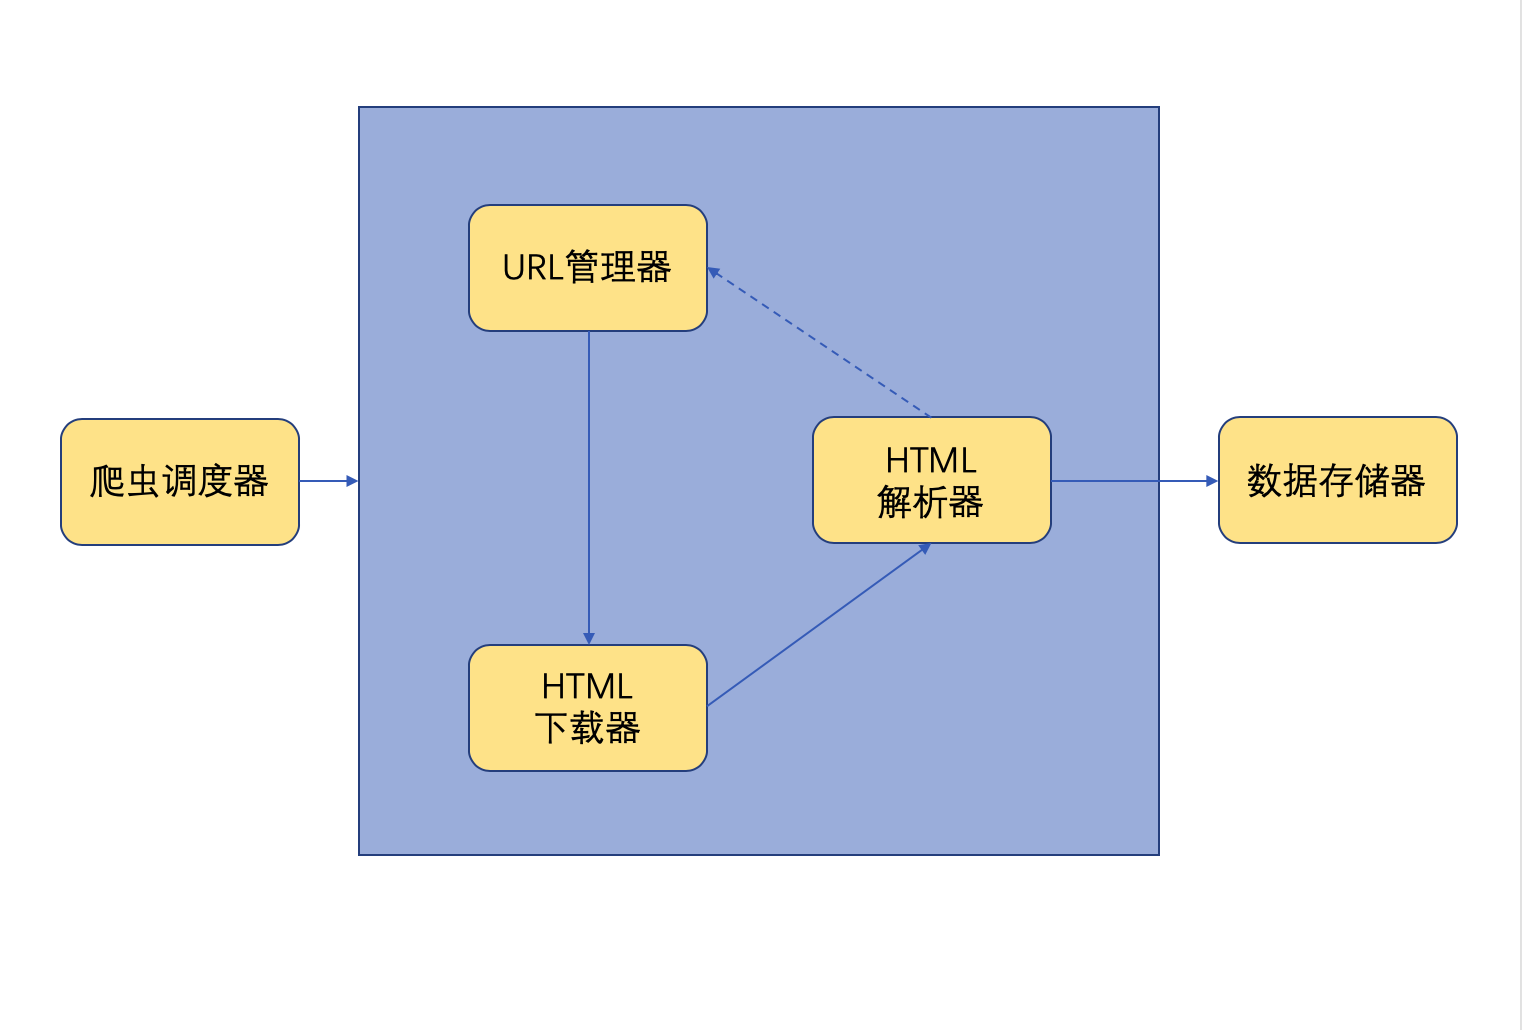
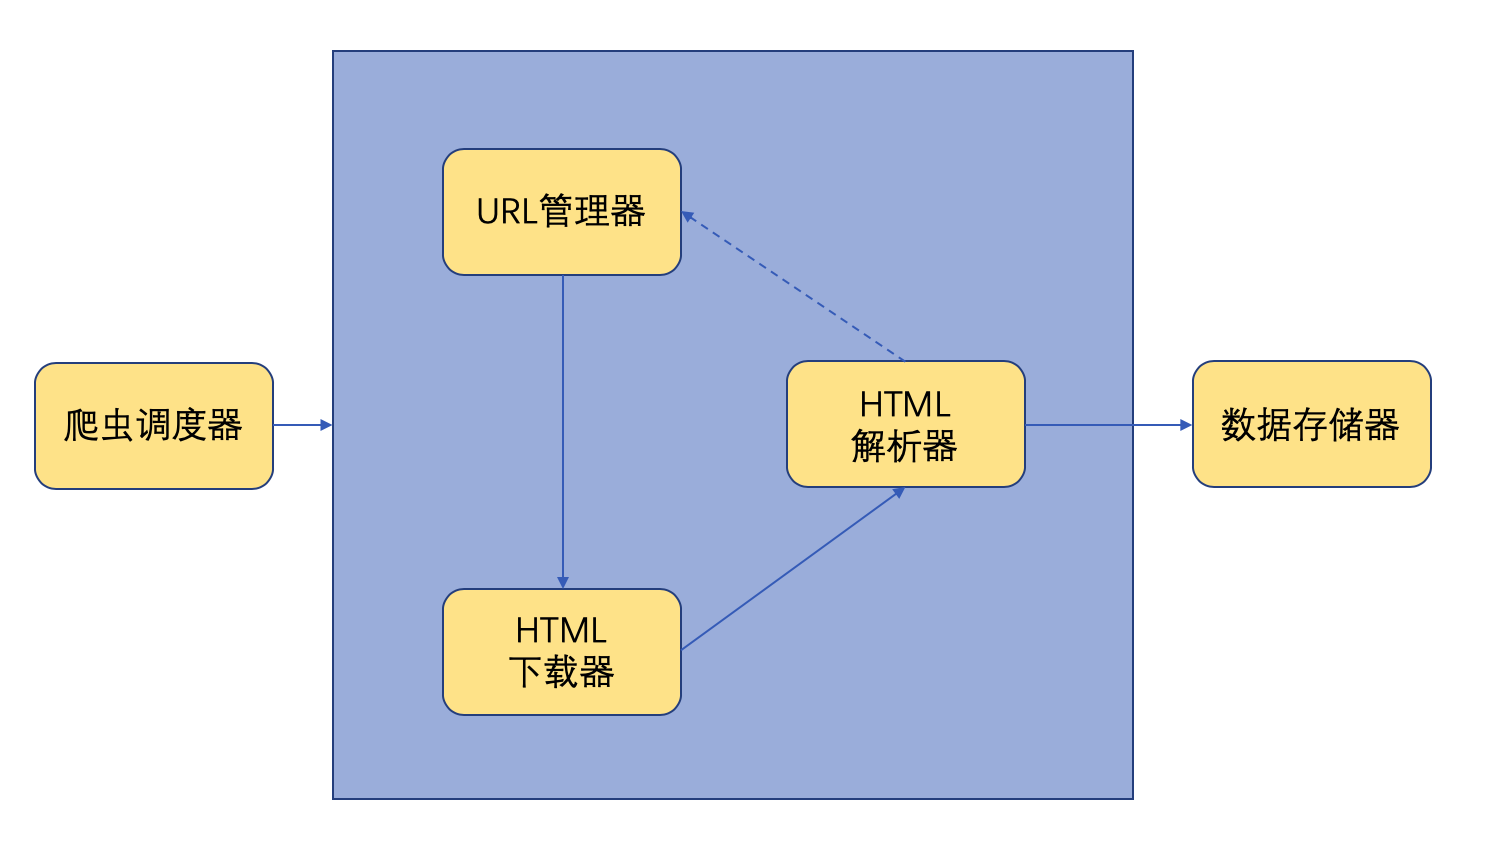
modify

Changed region(s): [[0.0, 0.0609, 0.9826, 0.9438], [0.522, 0.3958, 0.7063, 0.5785], [0.2764, 0.1522, 0.4913, 0.3349]]

diff --git a/01_base_spider/readme.md b/01_base_spider/readme.md
@@ -37,7 +37,7 @@
 2. 存储增量爬虫所需要的历史爬取记录，用于去重复
 
 ### 爬虫运行流程
-![image](http://xxxx.com/jpg)
+![image](https://github.com/yugiyx/my_spider/blob/master/01_base_spider/readme_pic/snap-02.png?raw=true)
 
 ## 0x03 程序环境
 ### Python及相关第三方库
